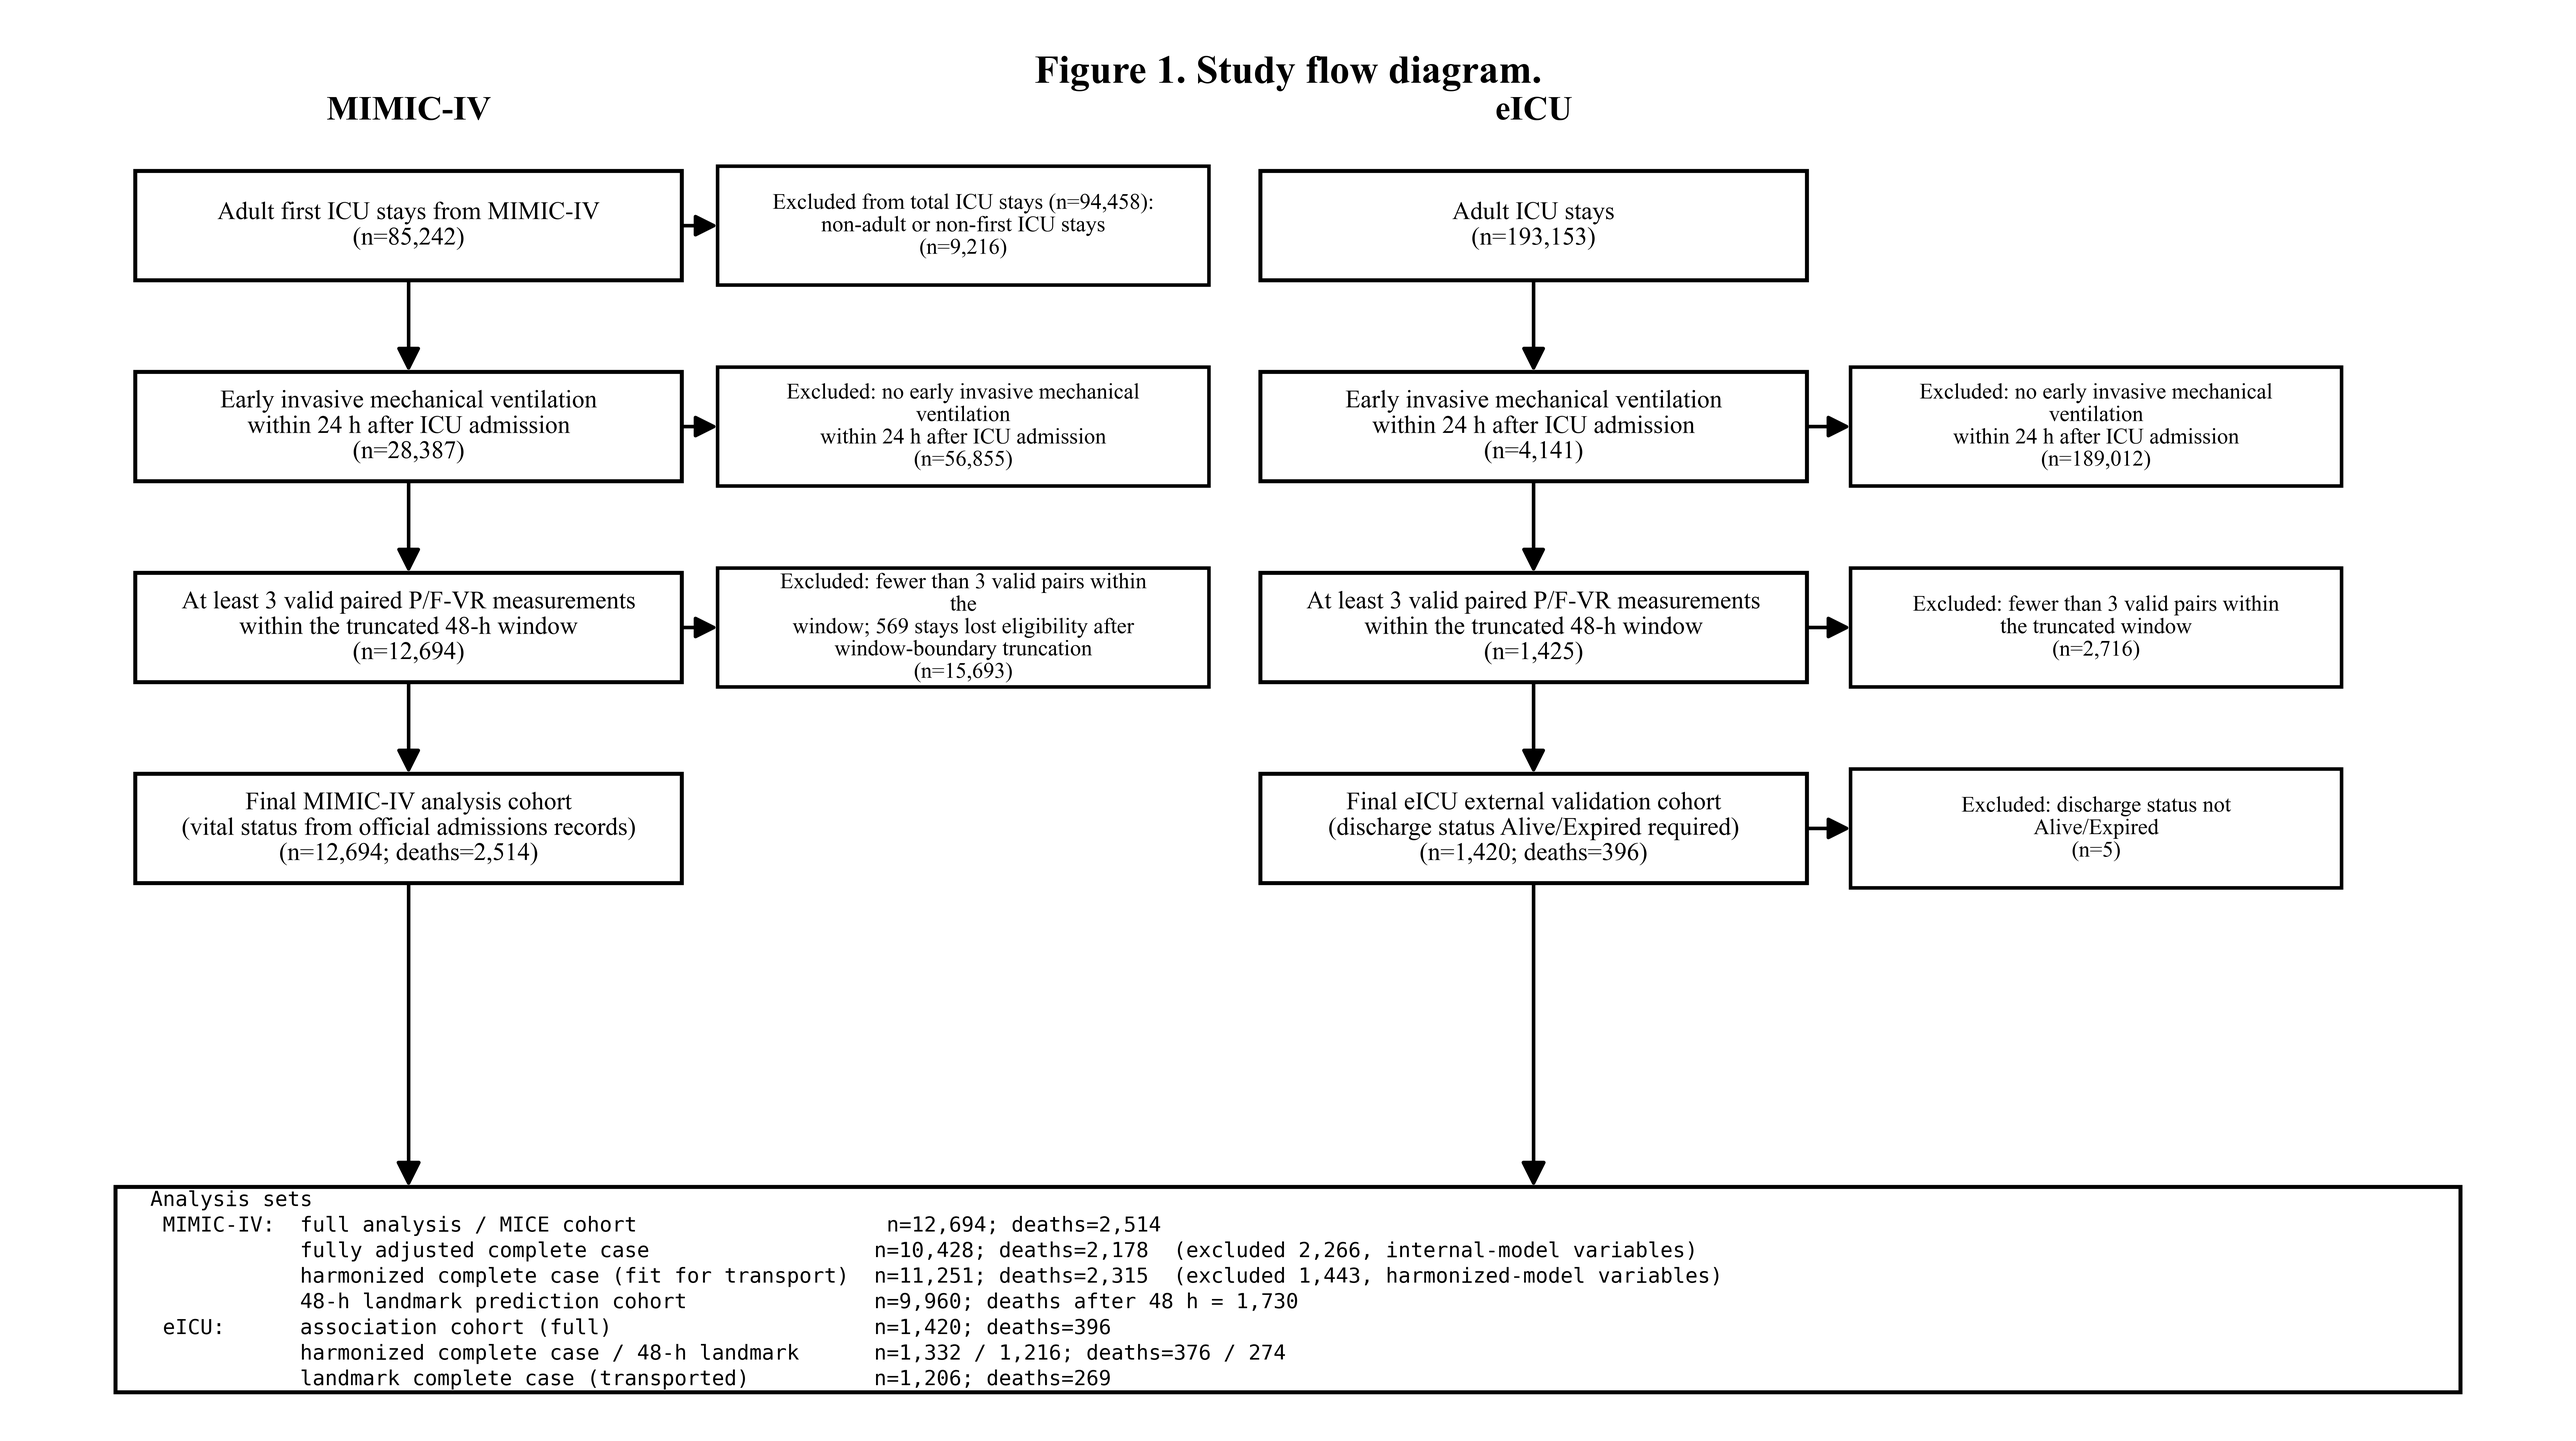
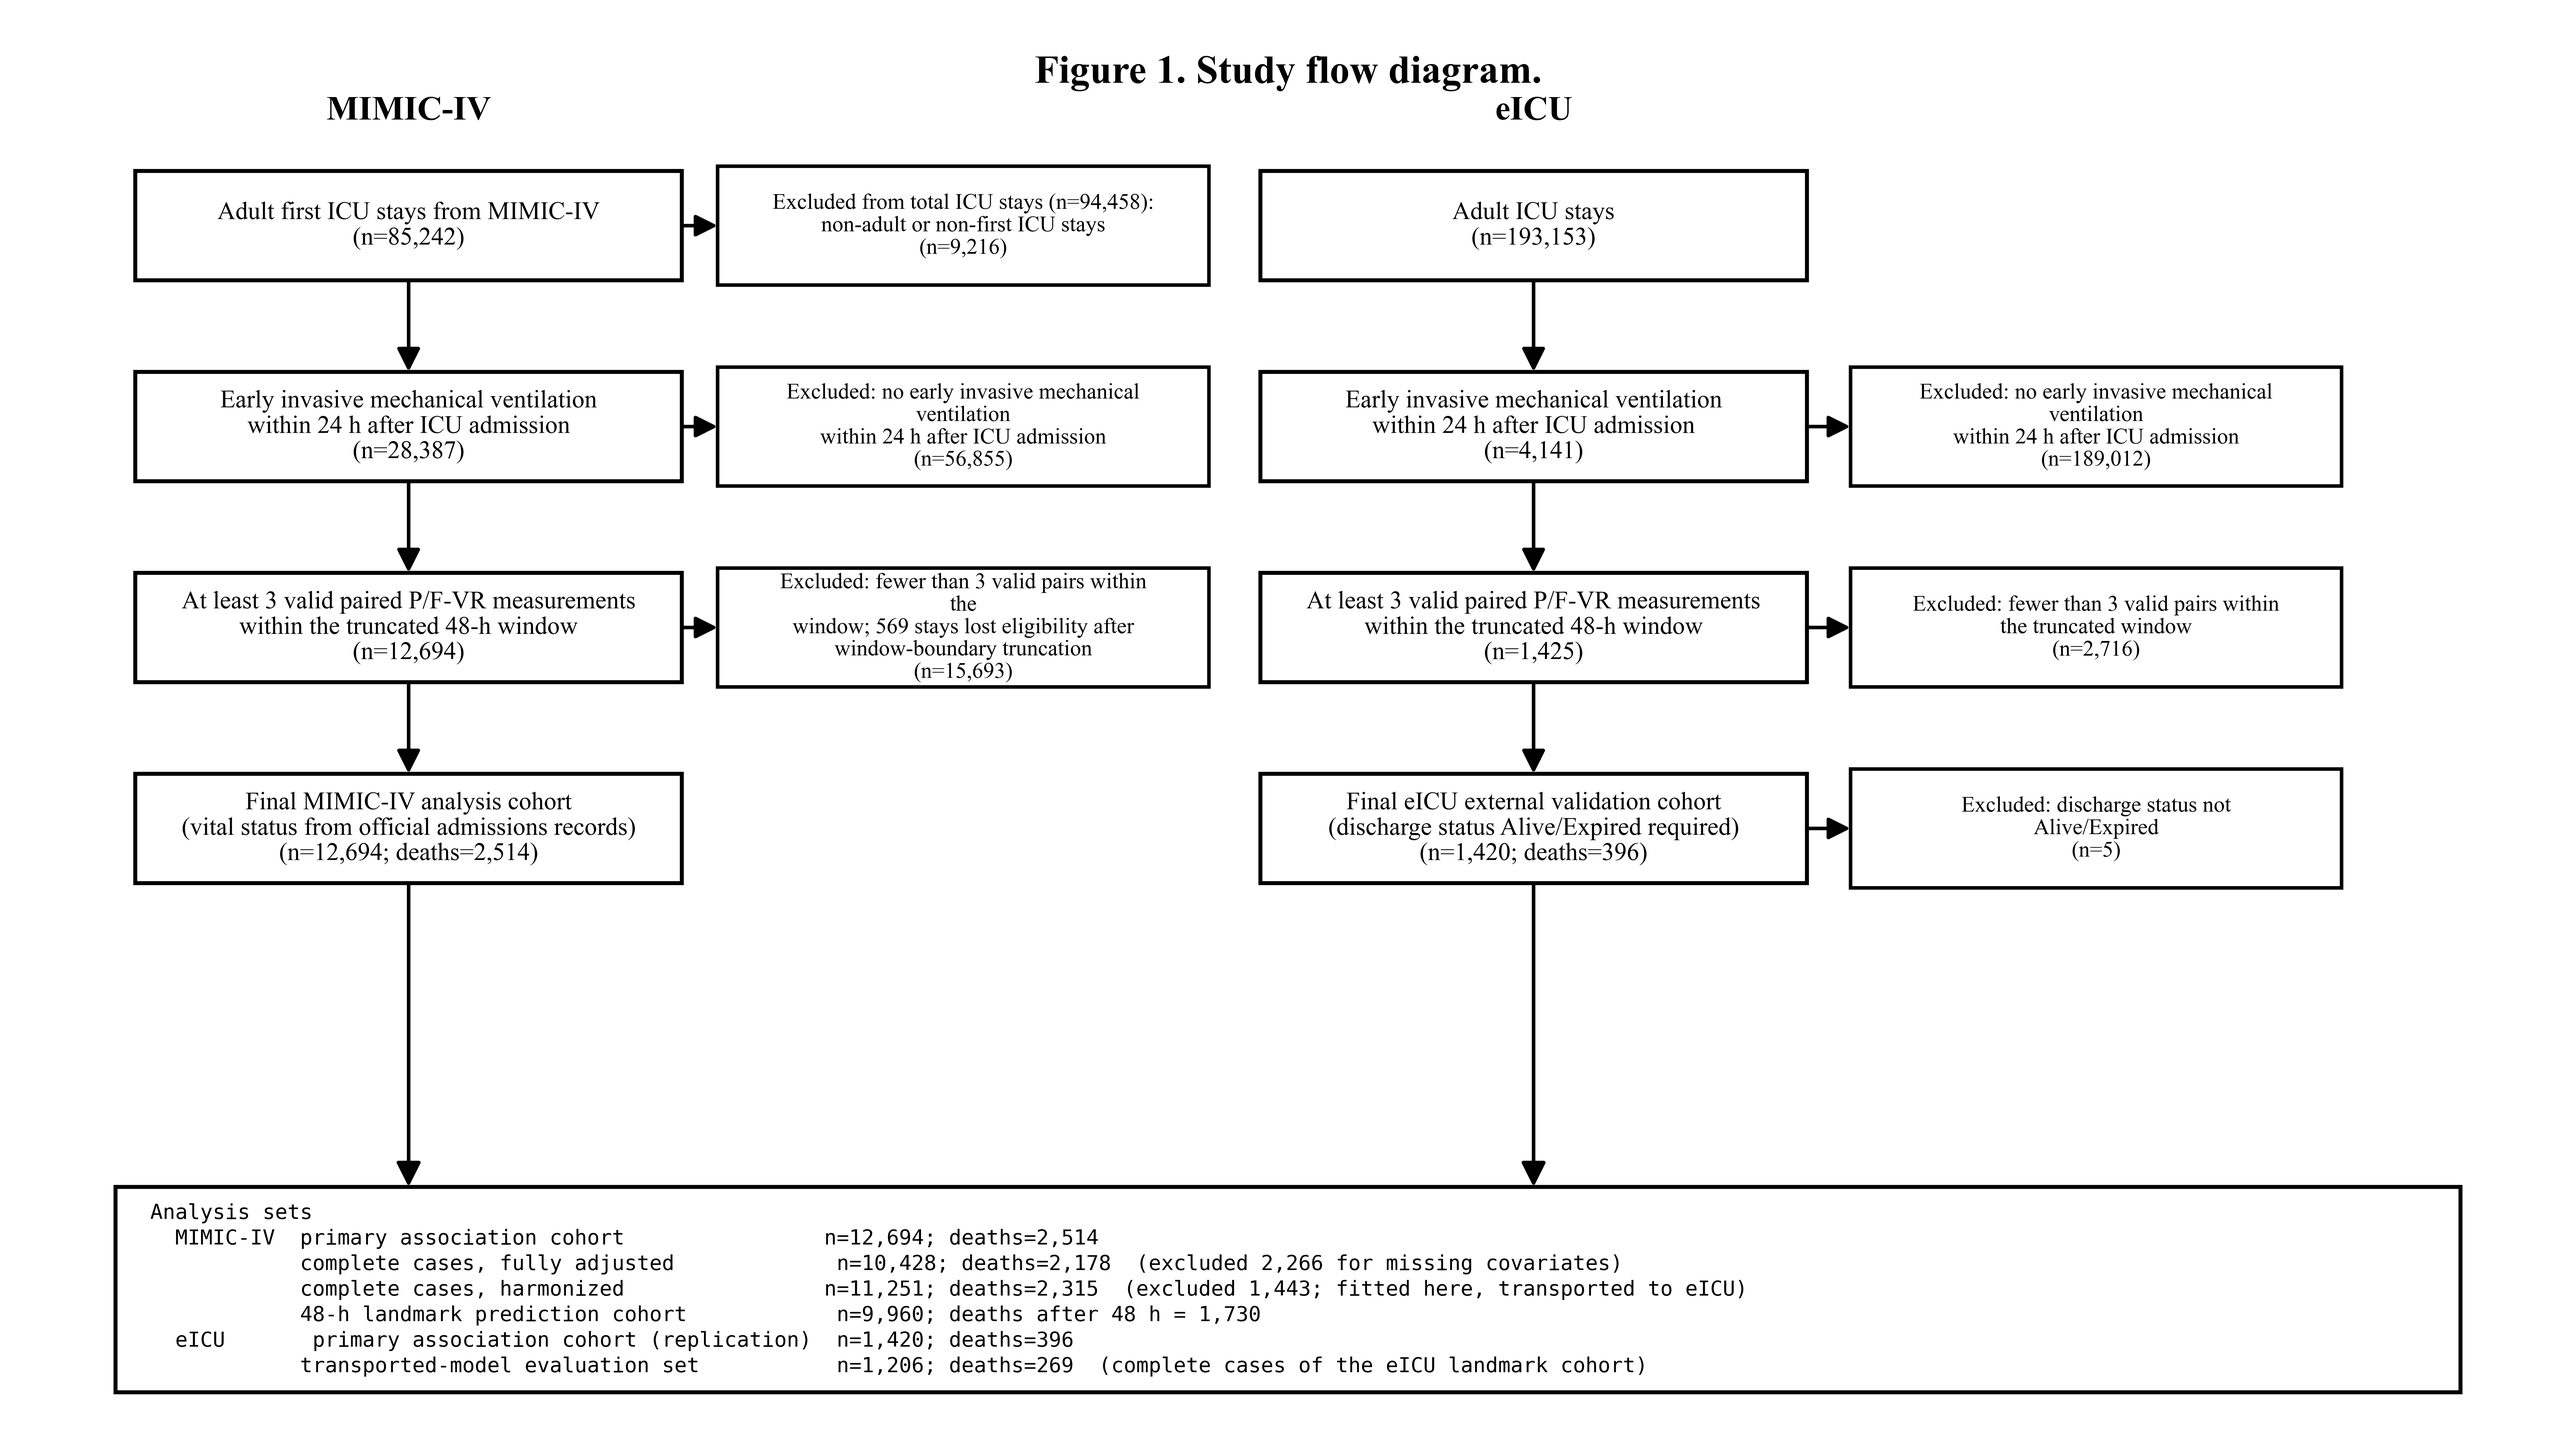
Figure 1 analysis-sets box per author's pick (scheme A): reader-facing functional cohort names (primary association cohort / complete cases fully adjusted / complete cases harmonized / 48-h landmark prediction cohort / transported-model evaluation set) grouped by database, with the four explanations

diff --git a/05_round2_rebuild/make_figure1_round2_v2.py b/05_round2_rebuild/make_figure1_round2_v2.py
@@ -59,13 +59,12 @@ EICU_STEPS = [
 
 ANALYSIS_SETS = [
     "Analysis sets",
-    " MIMIC-IV:  full analysis / MICE cohort                    n=12,694; deaths=2,514",
-    "            fully adjusted complete case                  n=10,428; deaths=2,178  (excluded 2,266, internal-model variables)",
-    "            harmonized complete case (fit for transport)  n=11,251; deaths=2,315  (excluded 1,443, harmonized-model variables)",
-    "            48-h landmark prediction cohort               n=9,960; deaths after 48 h = 1,730",
-    " eICU:      association cohort (full)                     n=1,420; deaths=396",
-    "            harmonized complete case / 48-h landmark      n=1,332 / 1,216; deaths=376 / 274",
-    "            landmark complete case (transported)          n=1,206; deaths=269",
+    "  MIMIC-IV  primary association cohort                n=12,694; deaths=2,514",
+    "            complete cases, fully adjusted             n=10,428; deaths=2,178  (excluded 2,266 for missing covariates)",
+    "            complete cases, harmonized                n=11,251; deaths=2,315  (excluded 1,443; fitted here, transported to eICU)",
+    "            48-h landmark prediction cohort            n=9,960; deaths after 48 h = 1,730",
+    "  eICU       primary association cohort (replication)  n=1,420; deaths=396",
+    "            transported-model evaluation set           n=1,206; deaths=269  (complete cases of the eICU landmark cohort)",
 ]
 
 
